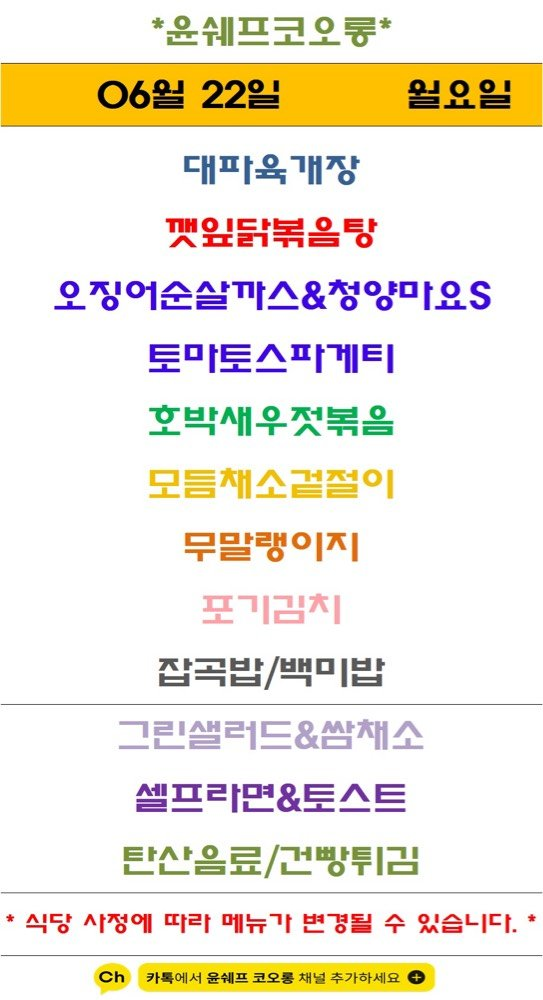
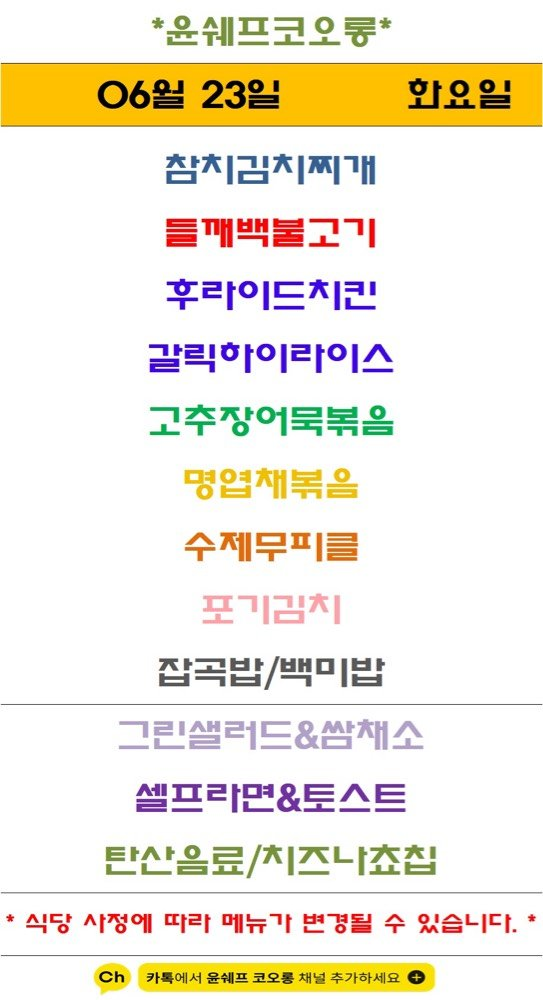
Update menu board assets

diff --git a/guro-menu/index.html b/guro-menu/index.html
@@ -32,7 +32,7 @@
   </header>
   <section class="meta">
     <div><small>기준 날짜</small><strong>2026년 6월 23일 화요일</strong></div>
-    <div><small>최종 갱신</small><strong>2026-06-23 09:13:22</strong></div>
+    <div><small>최종 갱신</small><strong>2026-06-23 09:18:31</strong></div>
     <div><small>등록 식당</small><strong>5개</strong></div>
   </section>
   <div class="notice">공개 카카오 채널의 메뉴 이미지를 자동 수집하고 OCR로 정리합니다. 텍스트에 오타가 있을 수 있으니 식단 이미지를 함께 확인해 주세요.</div>
@@ -104,7 +104,7 @@
         </div>
         <img class="menu-image" src="./images/yoon-chef-kolon.png" alt="윤쉐프 코오롱 식단 이미지" loading="lazy">
         <p class="message">최신 공개 식단 이미지의 텍스트입니다. 날짜는 원본 이미지를 확인해 주세요.</p>
-        <ul><li>대파육개장</li><li>오징어순살까쓰&amp;정양마요</li><li>토마토스파게티</li><li>호박새우짓볶음</li><li>무말랭이지</li><li>잡곡밥/백미밥</li><li>그린샐러드&amp;쌈재소</li><li>셀프라면&amp;토스트</li><li>탄산옴료/권빵튀긴</li></ul>
+        <ul><li>O62 23일 한요일</li><li>잠지림지찌개</li><li>후라이드지린</li><li>갈릭하이라이스</li><li>고추장어묵볶음</li><li>수제무피클</li><li>잡곡밥/백미밥</li><li>그린설러드&amp;쌈채소</li><li>셀프라면&amp;토스트</li><li>탄산음료/지즈나죠집</li></ul>
       </article>
   </section>
   <section class="seo" aria-label="검색 정보">한신IT타워 구내식당 자연푸드 구내식당 더이츠푸드 벽산더이룸 윤쉐프 코오롱 한신IT타워 벽산디지털밸리7차 대륭포스트타워1차 벽산디지털밸리1차 코오롱싸이언스밸리1차 서울 구로구 디지털로 272 한신IT타워 지하1층 서울 구로구 디지털로33길 50 벽산디지털밸리7차 지하1층 서울 구로구 디지털로 288 대륭포스트타워1차 지하1층 서울 구로구 디지털로27길 24 벽산디지털밸리1차 지하1층 서울 구로구 디지털로34길 43 코오롱싸이언스밸리1차 지하1층</section>

diff --git a/menu-today/index.html b/menu-today/index.html
@@ -209,7 +209,7 @@
 
     <section class="meta-bar">
       <div class="meta-card"><div class="meta-label">기준 날짜</div><div class="meta-value">2026년 6월 23일 화요일</div></div>
-      <div class="meta-card"><div class="meta-label">최종 가져온 시간</div><div class="meta-value">2026-06-23 09:13:11</div></div>
+      <div class="meta-card"><div class="meta-label">최종 가져온 시간</div><div class="meta-value">2026-06-23 09:18:17</div></div>
       <div class="meta-card"><div class="meta-label">확인 완료</div><div class="meta-value">9개 식당</div></div>
       <div class="meta-card"><div class="meta-label">준비중</div><div class="meta-value">3개 채널</div></div>
     </section>
